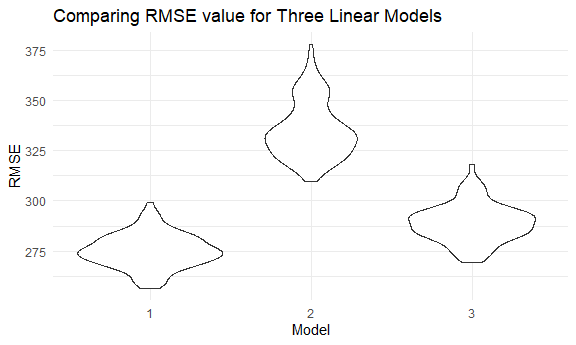
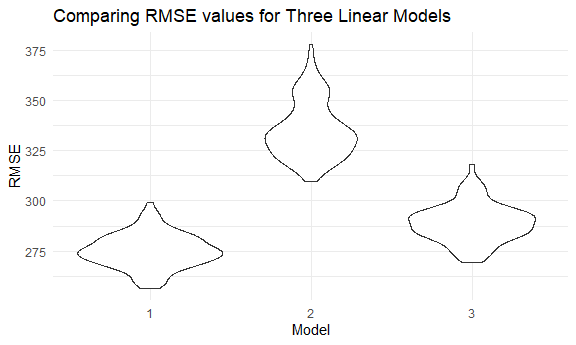
formmtting and modification on comments

Changed region(s): [[0.4062, 0.029, 0.7812, 0.087]]

diff --git a/p8105_hw6_ls3751.md b/p8105_hw6_ls3751.md
@@ -299,13 +299,18 @@ cv_df %>%
   ggplot(aes(x = model, y = rmse)) +
   geom_violin() +
   labs(
-    title = "Comparing RMSE value for Three Linear Models",
+    title = "Comparing RMSE values for Three Linear Models",
     x = "Model",
     y = "RMSE"
   ) 
 ```
 
 <img src="p8105_hw6_ls3751_files/figure-gfm/cross validation-1.png" width="90%" />
+
+Based on the violin plot, model 1(my model) has the lowest level of
+prediction error probably due to the the large number of predictor
+variables. The best model is model 1 (babysex + bhead + blength +
+fincome + gaweeks + mheight + mrace + ppbmi + wtgain).
 
 ## Problem 3
 
@@ -390,7 +395,8 @@ bootstrap_logbeta %>%
 
 <img src="p8105_hw6_ls3751_files/figure-gfm/unnamed-chunk-14-2.png" width="90%" />
 
-It is noticeable that both estimators seems to be normally distributed.
+It is noticeable from the two distribution plots that both estimators
+are approximately normally distributed.
 
 ### 95% Confidence intervals and quantiles
 
